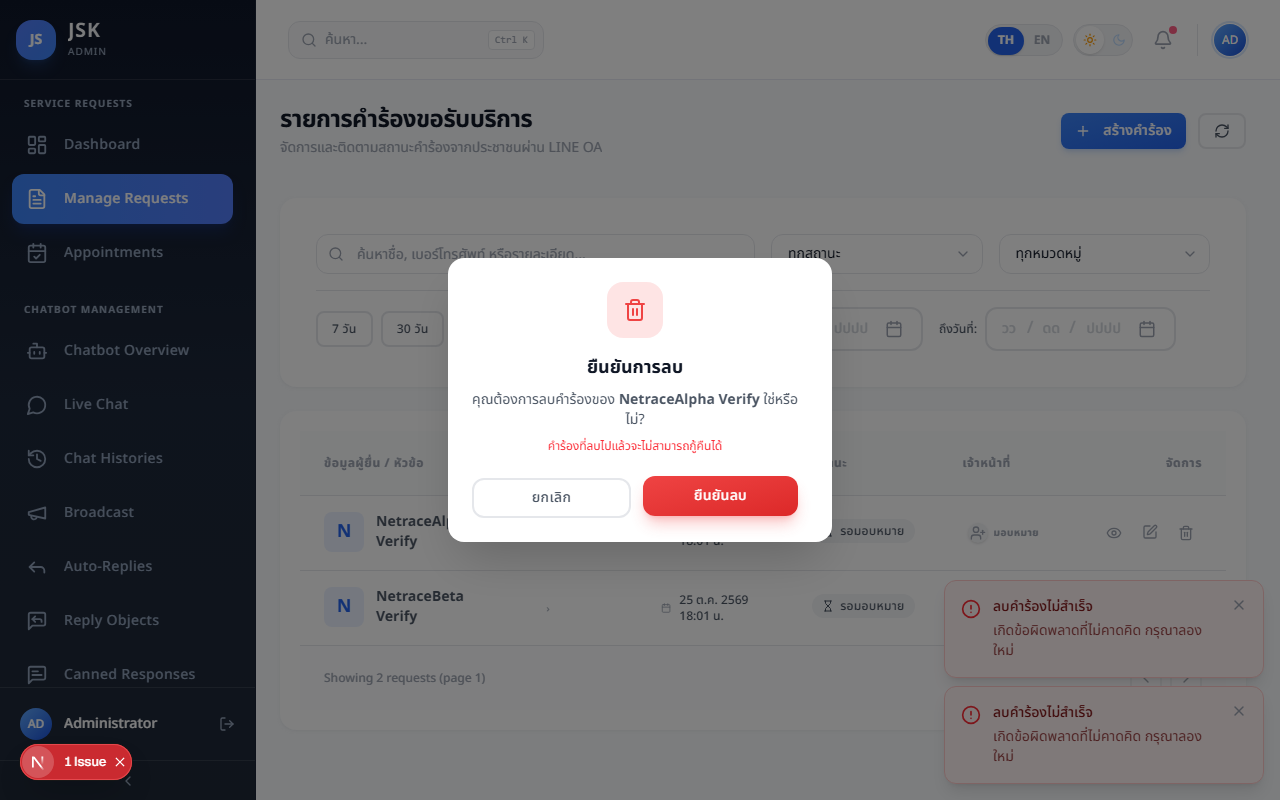
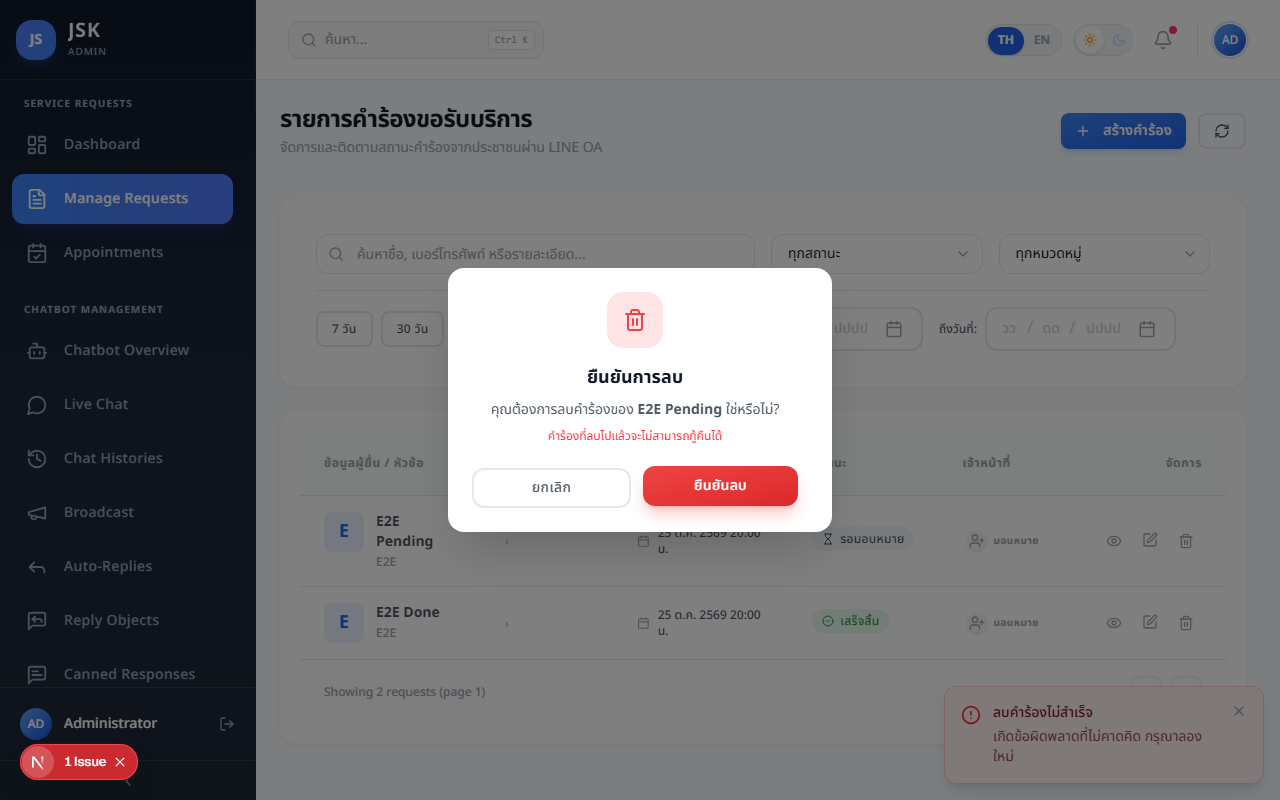
fix(admin/requests): guard against double delete

diff --git a/frontend/e2e/admin-audit-verify/safe-pending.spec.ts b/frontend/e2e/admin-audit-verify/safe-pending.spec.ts
@@ -42,10 +42,10 @@ test.describe('SAFE-01 both logouts confirm first', () => {
   })
 })
 
-test.describe('SAFE-02 dialog dismisses while delete is pending', () => {
+test.describe('SAFE-02 dialog stays open while delete is pending', () => {
   test.use({ viewport: { width: 1280, height: 800 } })
 
-  test('Escape closes the confirm dialog mid-request', async ({ page }) => {
+  test('Escape does not close the confirm dialog mid-request', async ({ page }) => {
     await page.route('**/admin/requests/*', async (route) => {
       if (route.request().method() === 'DELETE') {
         await new Promise((r) => setTimeout(r, 1200))
@@ -57,13 +57,14 @@ test.describe('SAFE-02 dialog dismisses while delete is pending', () => {
     await openDeleteDialog(page)
 
     await page.getByRole('button', { name: 'ยืนยันลบ' }).click()
+    await expect(page.getByText('กำลังทำรายการ ปิดหน้าต่างนี้ไม่ได้ยกเลิกคำสั่ง')).toBeVisible()
     await page.waitForTimeout(400)
     await page.keyboard.press('Escape')
-    await expect(page.getByRole('heading', { name: 'ยืนยันการลบ' })).toBeHidden({ timeout: 5_000 })
-    await page.screenshot({ path: `${EVIDENCE}/safe-02-escape-dismissed.png` })
+    await expect(page.getByRole('heading', { name: 'ยืนยันการลบ' })).toBeVisible({ timeout: 5_000 })
+    await page.screenshot({ path: `${EVIDENCE}/safe-02-escape-blocked.png` })
   })
 
-  test('backdrop click closes the confirm dialog mid-request', async ({ page }) => {
+  test('backdrop click does not close the confirm dialog mid-request', async ({ page }) => {
     await page.route('**/admin/requests/*', async (route) => {
       if (route.request().method() === 'DELETE') {
         await new Promise((r) => setTimeout(r, 1200))
@@ -77,19 +78,21 @@ test.describe('SAFE-02 dialog dismisses while delete is pending', () => {
     await page.getByRole('button', { name: 'ยืนยันลบ' }).click()
     await page.waitForTimeout(400)
     await page.mouse.click(40, 400)
-    await expect(page.getByRole('heading', { name: 'ยืนยันการลบ' })).toBeHidden({ timeout: 5_000 })
-    await page.screenshot({ path: `${EVIDENCE}/safe-02-backdrop-dismissed.png` })
+    await expect(page.getByRole('heading', { name: 'ยืนยันการลบ' })).toBeVisible({ timeout: 5_000 })
+    await page.screenshot({ path: `${EVIDENCE}/safe-02-backdrop-blocked.png` })
   })
 })
 
-test.describe('SAFE-03 double confirm sends two DELETEs', () => {
+test.describe('SAFE-03 double confirm sends one DELETE', () => {
   test.use({ viewport: { width: 1280, height: 800 } })
 
-  test('fast double-click is not deduped', async ({ page }) => {
+  test('fast double-click is deduped by the pending guard', async ({ page }) => {
     let deleteCount = 0
     await page.route('**/admin/requests/*', async (route) => {
       if (route.request().method() === 'DELETE') {
         deleteCount += 1
+        // Hold the first request so the second click lands while pending.
+        await new Promise((r) => setTimeout(r, 800))
       }
       await route.continue()
     })
@@ -100,11 +103,9 @@ test.describe('SAFE-03 double confirm sends two DELETEs', () => {
       (res) => res.url().includes('/admin/requests/') && res.request().method() === 'DELETE',
       { timeout: 15_000 },
     )
-    await page.waitForResponse(
-      (res) => res.url().includes('/admin/requests/') && res.request().method() === 'DELETE',
-      { timeout: 15_000 },
-    )
-    expect(deleteCount).toBe(2)
+    // Give a late duplicate every chance to fire, then count.
+    await page.waitForTimeout(1500)
+    expect(deleteCount).toBe(1)
     await page.screenshot({ path: `${EVIDENCE}/safe-03-double-delete.png` })
   })
 })

diff --git a/frontend/app/admin/requests/page.tsx b/frontend/app/admin/requests/page.tsx
@@ -179,6 +179,7 @@ export default function AdminRequestList() {
     const [selectedRequest, setSelectedRequest] = useState<ServiceRequest | null>(null);
     const [viewModalOpen, setViewModalOpen] = useState(false);
     const [deleteModalOpen, setDeleteModalOpen] = useState(false);
+    const [isDeleting, setIsDeleting] = useState(false);
     const [assignModalOpen, setAssignModalOpen] = useState(false);
     const [assigningRequest, setAssigningRequest] = useState<ServiceRequest | null>(null);
 
@@ -214,15 +215,20 @@ export default function AdminRequestList() {
     };
 
     const confirmDelete = async () => {
-        if (!selectedRequest) return;
-        const result = await apiFetch(`/admin/requests/${selectedRequest.id}`, { method: 'DELETE' });
-        if (result.ok) {
-            setRequests(prev => prev.filter(r => r.id !== selectedRequest.id));
-            setDeleteModalOpen(false);
-            setSelectedRequest(null);
-            toast({ variant: 'success', title: 'ลบคำร้องสำเร็จ' });
-        } else {
-            toast({ variant: 'error', title: 'ลบคำร้องไม่สำเร็จ', description: result.message });
+        if (!selectedRequest || isDeleting) return;
+        setIsDeleting(true);
+        try {
+            const result = await apiFetch(`/admin/requests/${selectedRequest.id}`, { method: 'DELETE' });
+            if (result.ok) {
+                setRequests(prev => prev.filter(r => r.id !== selectedRequest.id));
+                setDeleteModalOpen(false);
+                setSelectedRequest(null);
+                toast({ variant: 'success', title: 'ลบคำร้องสำเร็จ' });
+            } else {
+                toast({ variant: 'error', title: 'ลบคำร้องไม่สำเร็จ', description: result.message });
+            }
+        } finally {
+            setIsDeleting(false);
         }
     };
 
@@ -564,6 +570,7 @@ export default function AdminRequestList() {
                 onClose={() => setDeleteModalOpen(false)}
                 onConfirm={confirmDelete}
                 title="ยืนยันการลบ"
+                isLoading={isDeleting}
                 description={
                     <>
                         คุณต้องการลบคำร้องของ <b>{selectedRequest?.firstname} {selectedRequest?.lastname}</b> ใช่หรือไม่?
